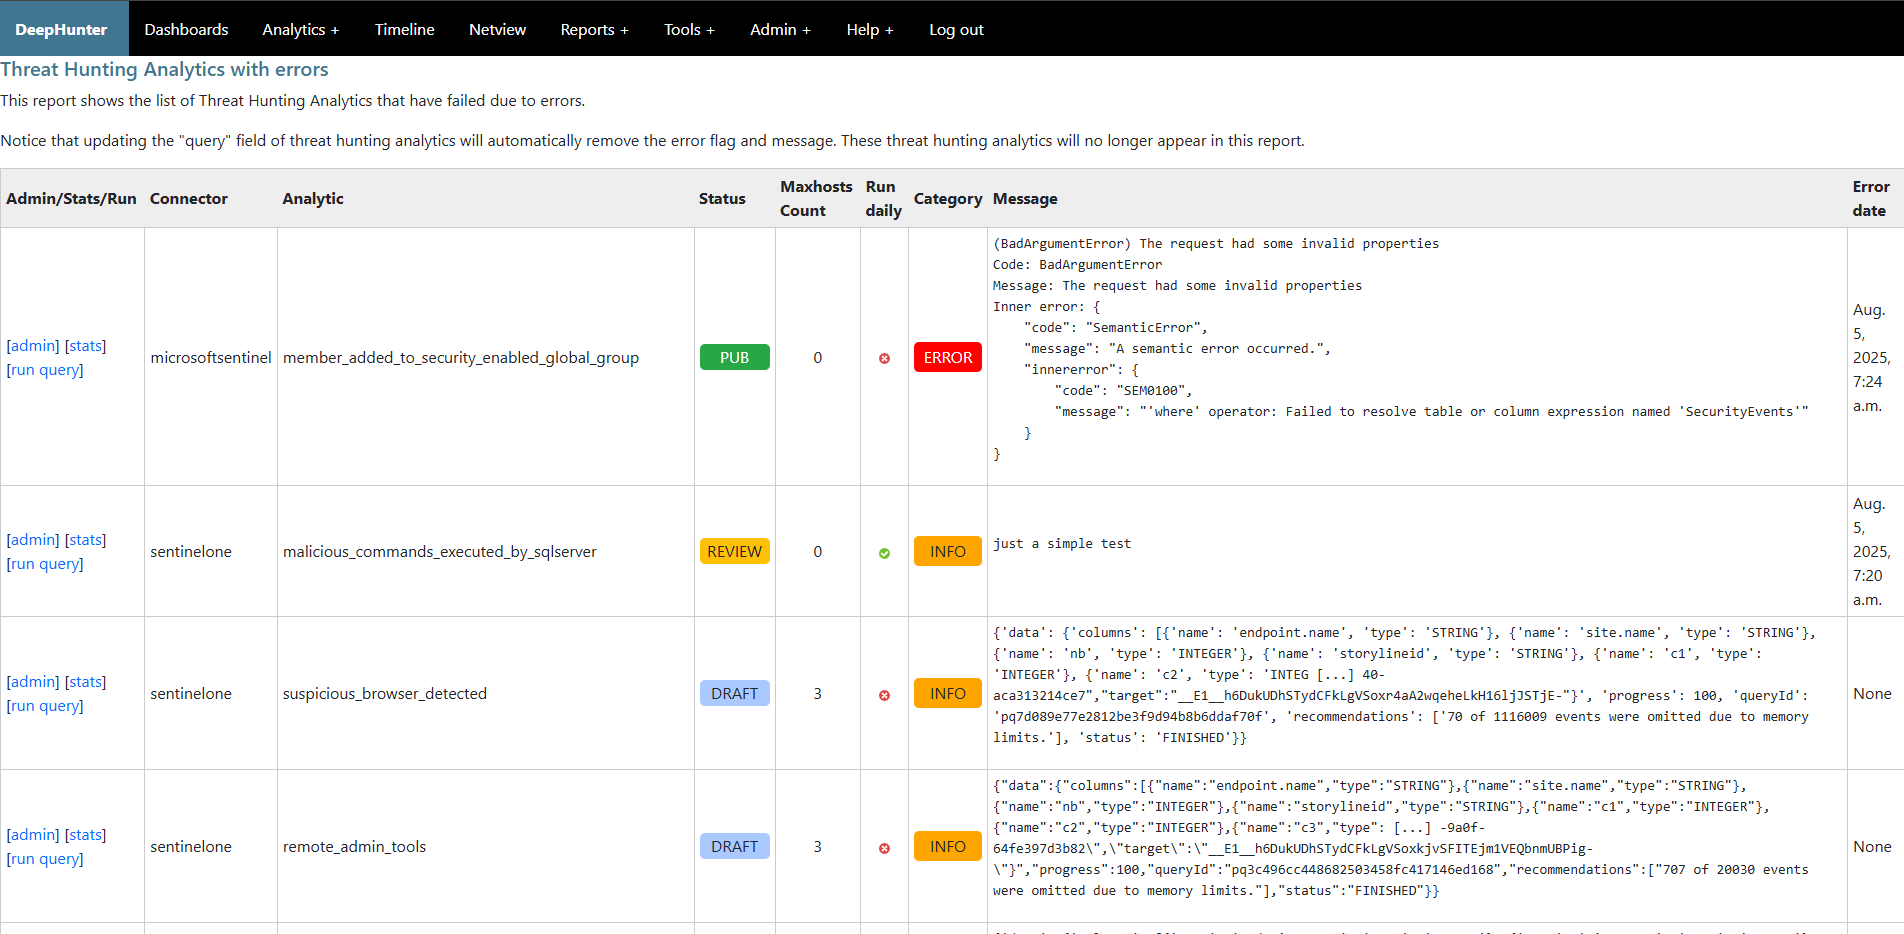
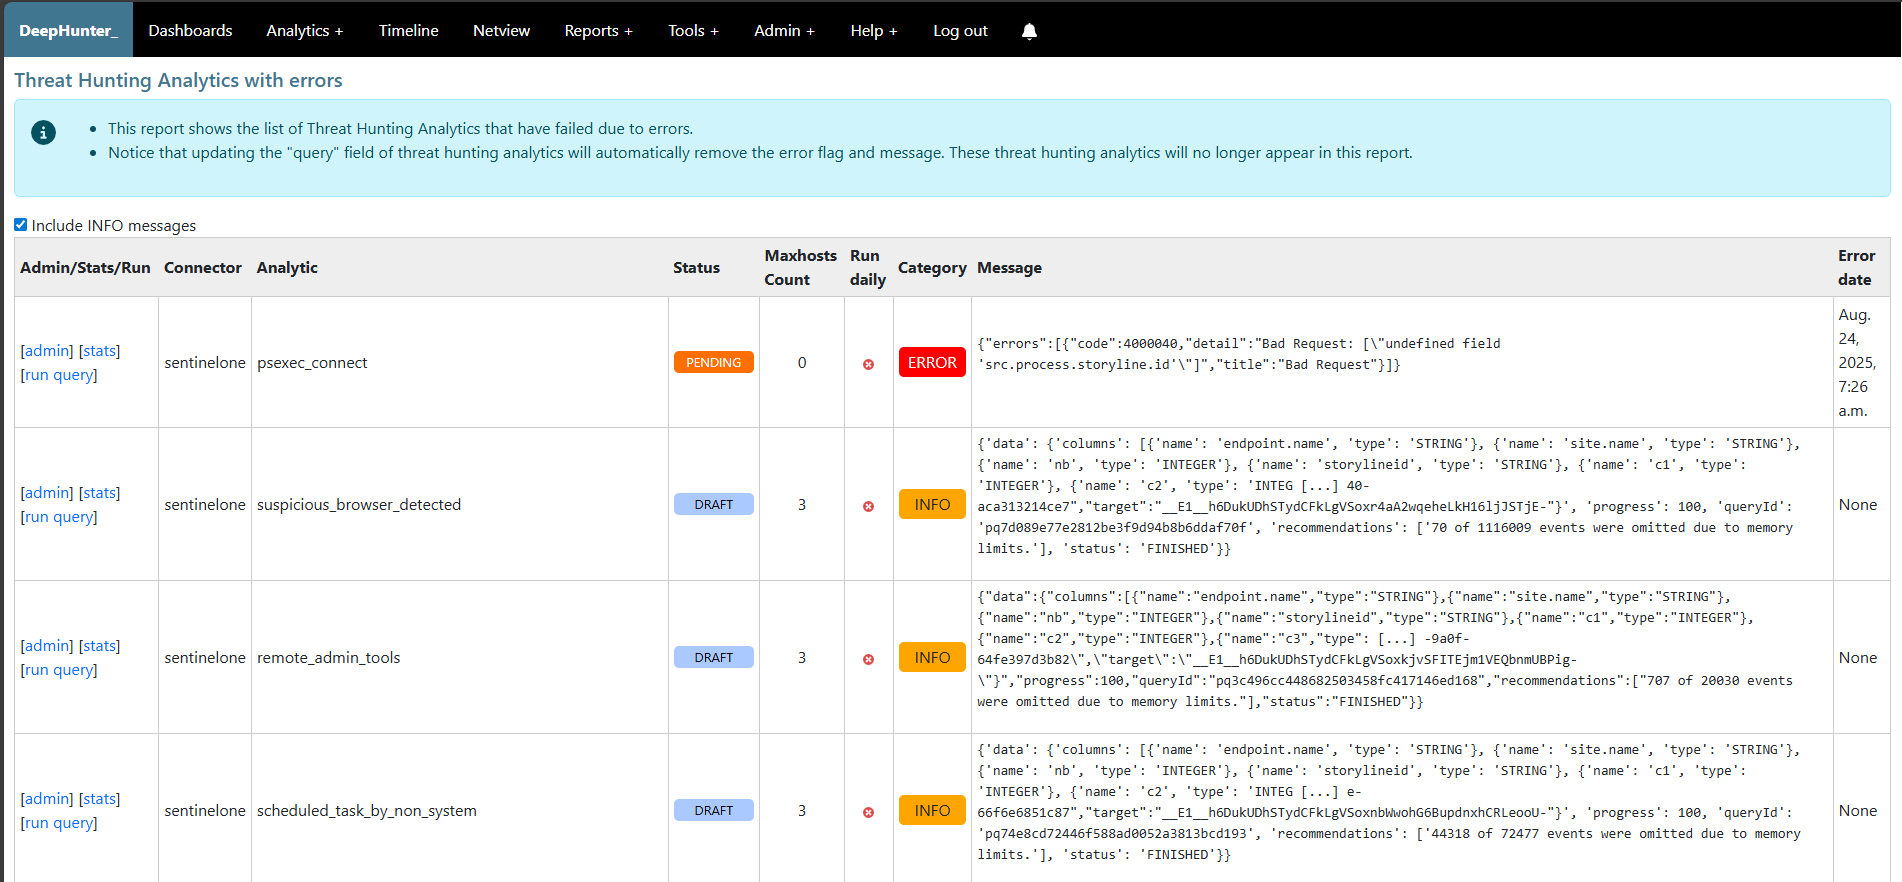
FR #185 - Hide INFO messages by default in the "Threat Hunting Analytics with errors" report

diff --git a/reports/templates/query_error.html b/reports/templates/query_error.html
@@ -1,79 +1,39 @@
 {% extends "base.html" %}
-{% load qm_extras %}
 
 {% block style %}
-<link rel="stylesheet" href="/static/css/list_analytics.css" />
+	<link rel="stylesheet" href="/static/css/list_analytics.css" />
+    <script src="/static/fontawesome/all.min.js"></script>
 {% endblock %}
 
 {% block body %}
-<h1>Threat Hunting Analytics with errors</h1>
-<p>This report shows the list of Threat Hunting Analytics that have failed due to errors.</p>
-<p>Notice that updating the "query" field of threat hunting analytics will automatically remove the error flag and message. These threat hunting analytics will no longer appear in this report.</p>
-<table class="mitre">
-	<tr>
-		<th>Admin/Stats/Run</th>
-		<th>Connector</th>
-		<th>Analytic</th>
-		<th>Status</th>
-		<th>Maxhosts Count</th>
-		<th>Run daily</th>
-		<th>Category</th>
-		<th>Message</th>
-		<th>Error date</th>
-	</tr>
-{% for analytic in analytics %}
-	<tr>
-		<td>
-			[<a target="_blank" href="/admin/qm/analytic/{{ analytic.id }}/change/">admin</a>]
-			[<a target="_blank" href="/{{ analytic.id }}/trend/">stats</a>]
-			[<a target="_blank" href="/events/{{ analytic.id }}/">run query</a>]
-		</td>
-		<td>{{ analytic.connector_name }}</td>
-		<td title="DESCRIPTION:&#013;===========&#013;{{ analytic.description }}&#013;&#013;QUERY:&#013;===========&#013;{{analytic.query}}">{{ analytic.name }}</td>
-		<td><div class="{{ analytic.status|lower }}">{{ analytic.status }}</div></td>
-		<td class="acenter">{{ analytic.maxhosts_count }}</td>
-		<td class="acenter">
-			{% if analytic.run_daily %}
-				<img src="/static/admin/img/icon-yes.svg" alt="yes" />
-			{% else %}
-				<img src="/static/admin/img/icon-no.svg" alt="no" />
-			{% endif %}
-		</td>
-		<td>{% if analytic.error_is_info %}
-			<div class="msg_warning">INFO</div>
-		{% else %}
-			<div class="msg_error">ERROR</div>
-		{% endif %}</td>
-		<td><pre>{{ analytic.query_error_message }}</pre></td>
-		<td>{{ analytic.query_error_date }}</td>
-	</tr>	
-{% endfor %}
-</table>
+<div class="padaround">
+	<h1>Threat Hunting Analytics with errors</h1>
 
-<div class="pagination">
-	<span class="step-links">
-		<span class="previous">
-			{% if analytics.has_previous %}
-			<a href="?page={{ analytics.previous_page_number }}">Previous</a>
-			{% endif %}
-		</span>
+	<div class="alert alert-info d-flex flex-row">
+		<div class="padright20"><i class="fas fa-fw fa-info-circle mr-3 mt-1"></i></div>
+		<div>
+			<div class="notification-message">
+				<ul>
+					<li>This report shows the list of Threat Hunting Analytics that have failed due to errors.</li>
+					<li>Notice that updating the "query" field of threat hunting analytics will automatically remove the error flag and message. These threat hunting analytics will no longer appear in this report.</li>
+				</ul>
+			</div>
+		</div>
+	</div>
 
-		<span class="current">
-			{% for i in analytics.paginator.num_pages|to_range %}
-				{% if i == analytics.number %}
-					<span class="pagelink">{{ i }}</span>
-				{% else %}
-					<span class="pagelink"><a href="?page={{ i }}">{{ i }}</a></span>
-				{% endif %}
-			{% endfor %}
-		</span>
+	<form id="filter-form">
+		<label>
+			<input type="checkbox" id="include-info" name="include_info" 
+				hx-get="{% url 'query_error_table' %}" 
+				hx-target="#message-table" 
+				hx-include="#filter-form" 
+				hx-trigger="load, change">
+			Include INFO messages
+		</label>
+	</form>
 
-		<span class="next">
-			{% if analytics.has_next %}
-				<span class="next"><a href="?page={{ analytics.next_page_number }}">Next</a></span>
-			{% endif %}
-		</span>
-	</span>
+	<div id="message-table">
+		{% include 'partials/query_error_table.html' %}
+	</div>
 </div>
-
 {% endblock %}

diff --git a/reports/templates/partials/query_error_table.html b/reports/templates/partials/query_error_table.html
@@ -1,0 +1,73 @@
+{% load qm_extras %}
+
+{% if analytics %}
+    <table class="mitre">
+        <tr>
+            <th>Admin/Stats/Run</th>
+            <th>Connector</th>
+            <th>Analytic</th>
+            <th>Status</th>
+            <th>Maxhosts Count</th>
+            <th>Run daily</th>
+            <th>Category</th>
+            <th>Message</th>
+            <th>Error date</th>
+        </tr>
+    {% for analytic in analytics %}
+        <tr>
+            <td>
+                [<a target="_blank" href="/admin/qm/analytic/{{ analytic.id }}/change/">admin</a>]
+                [<a target="_blank" href="/{{ analytic.id }}/trend/">stats</a>]
+                [<a target="_blank" href="/events/{{ analytic.id }}/">run query</a>]
+            </td>
+            <td>{{ analytic.connector_name }}</td>
+            <td title="DESCRIPTION:&#013;===========&#013;{{ analytic.description }}&#013;&#013;QUERY:&#013;===========&#013;{{analytic.query}}">{{ analytic.name }}</td>
+            <td><div class="{{ analytic.status|lower }}">{{ analytic.status }}</div></td>
+            <td class="acenter">{{ analytic.maxhosts_count }}</td>
+            <td class="acenter">
+                {% if analytic.run_daily %}
+                    <img src="/static/admin/img/icon-yes.svg" alt="yes" />
+                {% else %}
+                    <img src="/static/admin/img/icon-no.svg" alt="no" />
+                {% endif %}
+            </td>
+            <td>{% if analytic.error_is_info %}
+                <div class="msg_warning">INFO</div>
+            {% else %}
+                <div class="msg_error">ERROR</div>
+            {% endif %}</td>
+            <td><pre>{{ analytic.query_error_message }}</pre></td>
+            <td>{{ analytic.query_error_date }}</td>
+        </tr>	
+    {% endfor %}
+    </table>
+
+    <div class="pagination">
+        <span class="step-links">
+            <span class="previous">
+                {% if analytics.has_previous %}
+                <a href="?page={{ analytics.previous_page_number }}">Previous</a>
+                {% endif %}
+            </span>
+
+            <span class="current">
+                {% for i in analytics.paginator.num_pages|to_range %}
+                    {% if i == analytics.number %}
+                        <span class="pagelink">{{ i }}</span>
+                    {% else %}
+                        <span class="pagelink"><a href="?page={{ i }}">{{ i }}</a></span>
+                    {% endif %}
+                {% endfor %}
+            </span>
+
+            <span class="next">
+                {% if analytics.has_next %}
+                    <span class="next"><a href="?page={{ analytics.next_page_number }}">Next</a></span>
+                {% endif %}
+            </span>
+        </span>
+    </div>
+
+{% else %}
+    <p>No analytics with errors found.</p>
+{% endif %}

diff --git a/reports/views.py b/reports/views.py
@@ -7,6 +7,7 @@ from django.db.models import Q, Sum, Count
 from django.core.paginator import Paginator
 from datetime import datetime, timedelta
 from qm.models import Analytic, Snapshot, Campaign, MitreTactic, MitreTechnique, Endpoint, Connector
+from notifications.utils import add_debug_notification
 
 # Dynamically import all connectors
 import importlib
@@ -307,24 +308,32 @@ def analytics_perfs(request):
 
 @login_required
 def query_error(request):
-    analytics_with_errors = Analytic.objects.filter(query_error = True).exclude(status='ARCH').order_by('-query_error_date')
+    context = {}
+    return render(request, 'query_error.html', context)
 
+@login_required
+def query_error_table(request):
+    analytics_with_errors = Analytic.objects.filter(query_error = True).exclude(status='ARCH').order_by('-query_error_date')
+    include_info = request.GET.get('include_info', 'off') == 'on'  # Get checkbox value
+    
     analytics = []
     for analytic in analytics_with_errors:
-        analytics.append({
-            'id': analytic.id,
-            'name': analytic.name,
-            'description': analytic.description,
-            'query': analytic.query,
-            'status': analytic.status,
-            'maxhosts_count': analytic.maxhosts_count,
-            'connector_name': analytic.connector.name,
-            'run_daily': analytic.run_daily,
-            'error': analytic.query_error,
-            'error_is_info': all_connectors.get(analytic.connector.name).error_is_info(analytic.query_error_message),
-            'query_error_message': analytic.query_error_message,
-            'query_error_date': analytic.query_error_date,
-        })
+        error_is_info = all_connectors.get(analytic.connector.name).error_is_info(analytic.query_error_message)
+        if (not error_is_info) or (error_is_info and include_info):
+            analytics.append({
+                'id': analytic.id,
+                'name': analytic.name,
+                'description': analytic.description,
+                'query': analytic.query,
+                'status': analytic.status,
+                'maxhosts_count': analytic.maxhosts_count,
+                'connector_name': analytic.connector.name,
+                'run_daily': analytic.run_daily,
+                'error': analytic.query_error,
+                'error_is_info': error_is_info,
+                'query_error_message': analytic.query_error_message,
+                'query_error_date': analytic.query_error_date,
+            })
 
     paginator = Paginator(analytics, ANALYTICS_PER_PAGE)
     page_number = int(request.GET.get('page', 1))
@@ -334,7 +343,8 @@ def query_error(request):
         'analytics': page_obj
         }
     
-    return render(request, 'query_error.html', context)
+    return render(request, 'partials/query_error_table.html', context)
+
 
 @login_required
 def rare_occurrences(request):

diff --git a/reports/urls.py b/reports/urls.py
@@ -8,6 +8,7 @@ urlpatterns = [
     path('endpoints', views.endpoints, name='endpoints'),
     path('missing_mitre', views.missing_mitre, name='missing_mitre'),
     path('query_error', views.query_error, name='query_error'),
+    path('query_error_table', views.query_error_table, name='query_error_table'),
     path('rare_occurrences', views.rare_occurrences, name='rare_occurrences'),
     path('endpoints_most_analytics', views.endpoints_most_analytics, name='endpoints_most_analytics'),
 ]

diff --git a/docs/reports/query_error.rst b/docs/reports/query_error.rst
@@ -5,6 +5,8 @@ This report shows the list of Threat Hunting Analytics that triggered messages (
 
 Notice that the "error date" field corresponds to the date when the campaign has run. When a campaign is regenerated retroactively, the snapshot date for the events will correspond to the retroactive date of the campaign, but the error date will correspond to the current date when the campaign was regenerated. This is done to investigate on potential datalake-related issues.
 
+The checkbox is a toggle to include or exclude INFO messages. By default, only ERROR messages are shown when the page loads.
+
 .. image:: ../img/reports_query_error.png
   :width: 1500
   :alt: img
